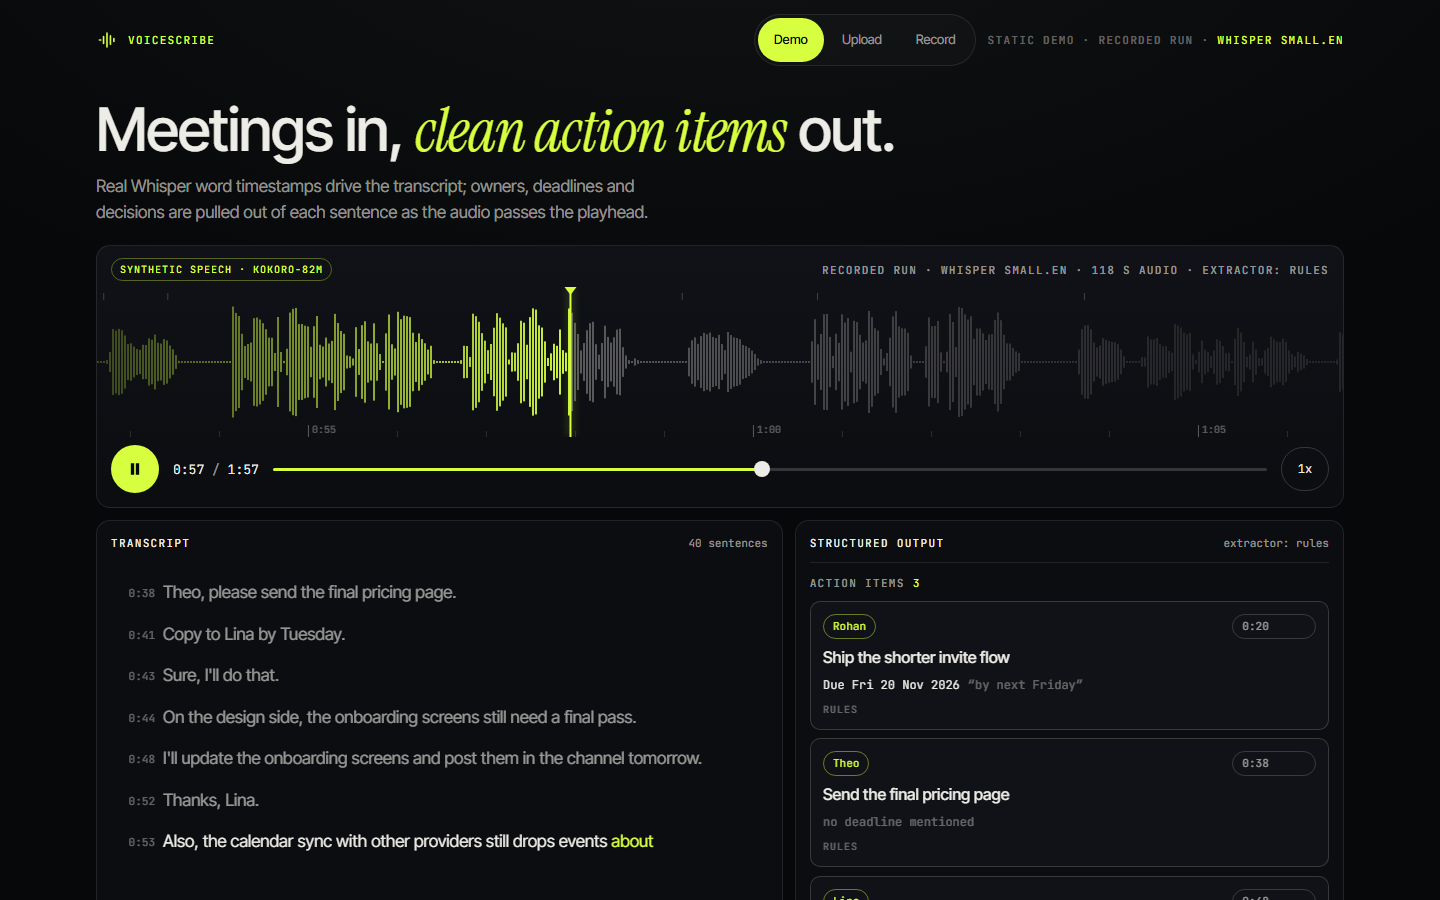
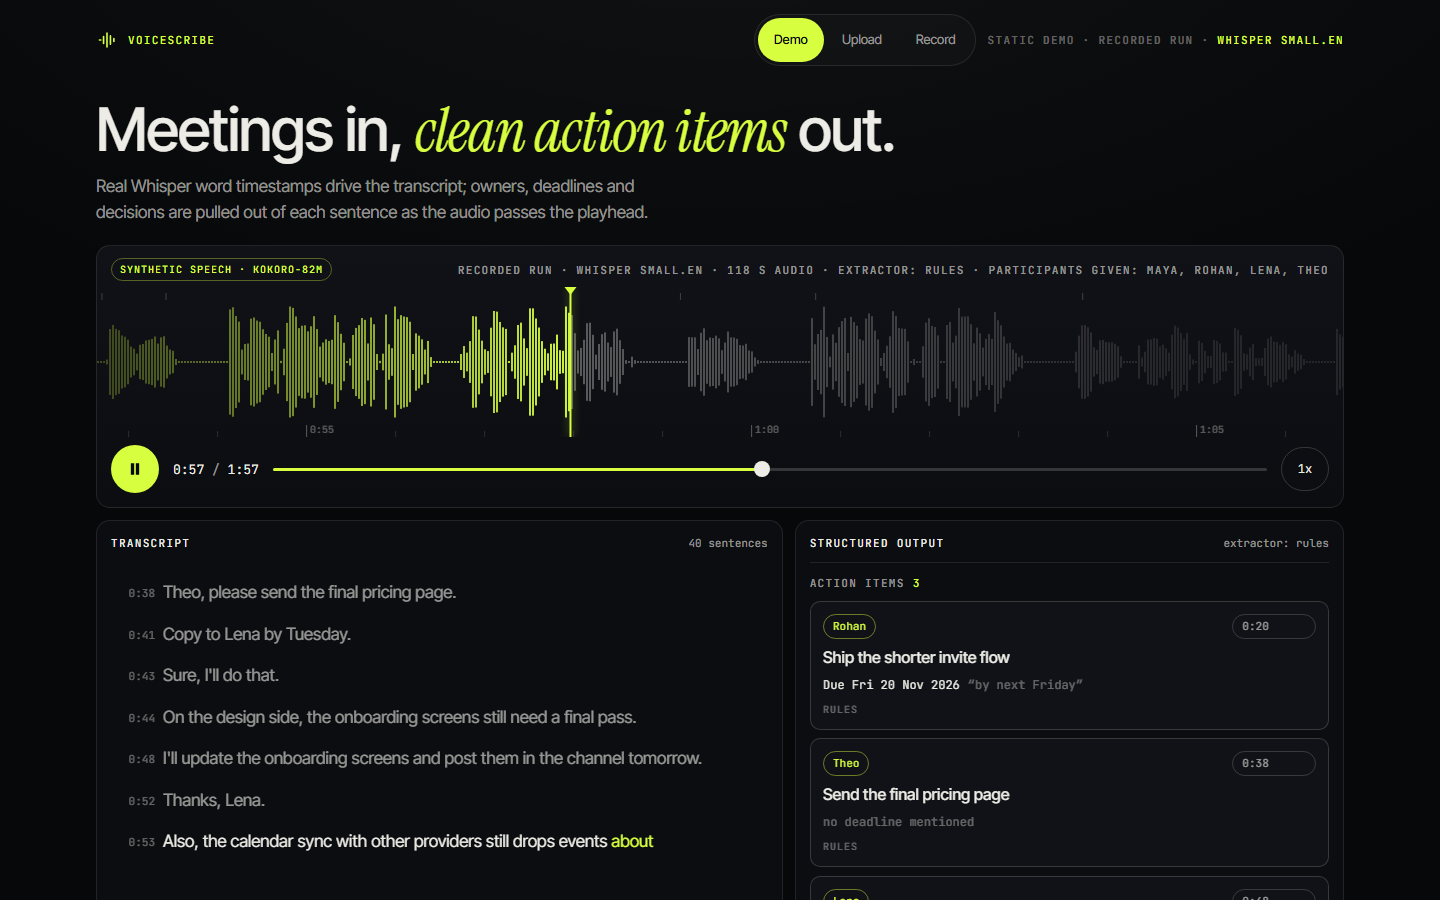
Record the demo run with the attendee list and show it as a run input

diff --git a/docs/app.js b/docs/app.js
@@ -92,6 +92,7 @@ function loadMeeting(meeting, peaks, pps, audioUrl, opts = {}) {
   // The recorded demo shows a speed figure only when it was measured on a quiet machine (see scripts/rerecord_demo.py).
   if (tm.asr_s != null && (!opts.recorded || tm.quiet_machine)) parts.push(`asr ${tm.asr_s.toFixed(1)} s (${tm.rtf}x real time, cpu int8)`);
   parts.push(`extractor: ${meeting.extractor}`);
+  if (meeting.participants && meeting.participants.length) parts.push(`participants given: ${meeting.participants.join(", ")}`);
   $("#run-info").textContent = $("#run-info-m").textContent = (opts.recorded ? "recorded run · " : "") + parts.join(" · ");
   if (opts.recorded) S.recordedModel = meeting.transcript.model.replace("faster-whisper/", "whisper ");
   renderEnv();

diff --git a/web/app.js b/web/app.js
@@ -92,6 +92,7 @@ function loadMeeting(meeting, peaks, pps, audioUrl, opts = {}) {
   // The recorded demo shows a speed figure only when it was measured on a quiet machine (see scripts/rerecord_demo.py).
   if (tm.asr_s != null && (!opts.recorded || tm.quiet_machine)) parts.push(`asr ${tm.asr_s.toFixed(1)} s (${tm.rtf}x real time, cpu int8)`);
   parts.push(`extractor: ${meeting.extractor}`);
+  if (meeting.participants && meeting.participants.length) parts.push(`participants given: ${meeting.participants.join(", ")}`);
   $("#run-info").textContent = $("#run-info-m").textContent = (opts.recorded ? "recorded run · " : "") + parts.join(" · ");
   if (opts.recorded) S.recordedModel = meeting.transcript.model.replace("faster-whisper/", "whisper ");
   renderEnv();

diff --git a/scripts/rerecord_demo.py b/scripts/rerecord_demo.py
@@ -28,7 +28,7 @@ sys.path.insert(0, str(ROOT / "src"))
 
 from voicescribe import audio  # noqa: E402
 from voicescribe.asr import FasterWhisperTranscriber  # noqa: E402
-from voicescribe.eval.extract_eval import load_meeting  # noqa: E402
+from voicescribe.eval.extract_eval import load_meeting, script_participants  # noqa: E402
 from voicescribe.eval.speech_eval import demo_eval  # noqa: E402
 from voicescribe.extract.base import get_extractor  # noqa: E402
 from voicescribe.pipeline import process_file  # noqa: E402
@@ -92,7 +92,8 @@ def main() -> None:
     busy = cpu_busy()
     gold = load_meeting(demo / "script.txt")
     meeting, samples = process_file(demo / "meeting.mp3", gold.date, transcriber=tr, extractor=get_extractor("rules"),
-                                    title=gold.title, synthetic=True)  # fmt: skip
+                                    title=gold.title, synthetic=True,
+                                    people=script_participants(demo / "script.txt"))  # fmt: skip
     meeting.timings["quiet_machine"] = 1.0 if busy < QUIET_BELOW else 0.0
     meeting.timings["cpu_busy_before"] = busy
     web = ROOT / "web" / "demo"

diff --git a/src/voicescribe/cli.py b/src/voicescribe/cli.py
@@ -103,7 +103,7 @@ def cmd_build_demo(a: argparse.Namespace) -> int:
     """Run the real pipeline on the bundled synthetic meeting and write the recorded run for the web UI."""
     from . import audio
     from .asr import FasterWhisperTranscriber
-    from .eval.extract_eval import load_meeting
+    from .eval.extract_eval import load_meeting, script_participants
     from .extract.base import get_extractor
     from .pipeline import process_file
 
@@ -112,7 +112,7 @@ def cmd_build_demo(a: argparse.Namespace) -> int:
     meeting, samples = process_file(
         demo / "meeting.mp3", gold.date, transcriber=FasterWhisperTranscriber(a.model),
         extractor=get_extractor(a.extractor), diarise=a.diarize, models_dir=Path(a.models_dir),
-        title=gold.title, synthetic=True,
+        title=gold.title, synthetic=True, people=script_participants(demo / "script.txt"),
     )  # fmt: skip
     out = Path(a.out)
     out.mkdir(parents=True, exist_ok=True)

diff --git a/tests/test_names.py b/tests/test_names.py
@@ -73,3 +73,10 @@ def test_parse_people():
 def test_labelled_meetings_are_left_untouched():
     for m in extract_eval.load_all(Path(ROOT / "data" / "eval" / "extract")):
         assert canonical_map(m.transcript.sentences) == {}, m.name
+
+
+def test_meeting_records_the_participants_it_was_given():
+    text = "Okay. Lena, can you ship the invite flow by Friday? Sure, I will. Thanks, Lina."
+    m = build_meeting(words_from_text(text), 20.0, MEETING_DATE, RulesExtractor(), people=["Maya", "Lena"])
+    assert m.participants == ["Maya", "Lena"] and "Lina" not in m.transcript.text() and m.name_map == {"Lina": "Lena"}
+    assert build_meeting(words_from_text(text), 20.0, MEETING_DATE, RulesExtractor()).participants == []

diff --git a/src/voicescribe/eval/extract_eval.py b/src/voicescribe/eval/extract_eval.py
@@ -155,3 +155,11 @@ def score(meetings: list[EvalMeeting], extractor: Extractor, people_from_speaker
         "matched_actions": owner_n,
         "errors": errors,
     }
+
+
+def script_participants(path: Path) -> list[str]:
+    """Names from a script's "# voices: Maya=af_heart, Rohan=..." header (the attendee list for the demo meeting)."""
+    for line in path.read_text(encoding="utf8").splitlines():
+        if line.startswith("# voices:"):
+            return [kv.split("=")[0].strip() for kv in line.split(":", 1)[1].split(",") if "=" in kv]
+    return []

diff --git a/src/voicescribe/schema.py b/src/voicescribe/schema.py
@@ -87,6 +87,7 @@ class Meeting(BaseModel):
     synthetic: bool = False
     audio_name: str | None = None
     speakers: list[str] = Field(default_factory=list)
+    participants: list[str] = Field(default_factory=list)  # attendee list supplied by the user (not inferred)
     name_map: dict[str, str] = Field(default_factory=dict)  # spelling variants rewritten to one name
     transcript: Transcript
     summary: Summary | None = None

diff --git a/src/voicescribe/pipeline.py b/src/voicescribe/pipeline.py
@@ -56,6 +56,7 @@ def build_meeting(
         synthetic=synthetic,
         audio_name=audio_name,
         speakers=names,
+        participants=list(people or []),
         name_map=name_map,
         transcript=transcript,
         summary=summary,

diff --git a/README.md b/README.md
@@ -148,7 +148,7 @@ two items and gets both wrong, so it is worse than leaving owners unassigned. Lo
 is confident and wrong on exactly the cases that cannot be resolved from text ("Nadia" for a sentence spoken by
 Sol, because Nadia answered the line before): without speaker turns the transcript simply does not contain the
 answer. The deterministic cues that do exist (an addressed request followed by an acceptance, a trailing name in a
-request, "Thanks, Mei." after a commitment) are in the rules, which resolved the demo's "Lena" and "Rohan" items.
+request, "Thanks, Mei." after a commitment) are in the rules, which resolved the demo's "Lena" and "Rohan" items (6 of its 7 owners).
 
 *The 1.5B "collapse" in the first version was a defect, not a finding.* My first verifier asked the model for a JSON label and
 the 1.5B model answered "decision" for 11 of 13 candidates, including plain requests, and once with an invalid label
@@ -169,8 +169,10 @@ showed up as two different owners. Names the dialogue marks as names (an address
 are clustered by consonant skeleton and edit distance and rewritten to one spelling, in the transcript and in the owners.
 With a participants list (`--participants "Ana, Ben"`, the API field `participants`, or the Participants field in
 Upload/Record) that list is the closed set: names map to the nearest participant and an owner outside it becomes
-unassigned. Without one, the most frequent spelling wins, which is not necessarily the right one (the demo's "Lena" is
-heard mostly as "Lina" and shows as Lina). The labelled meetings contain no spelling variants, so the effect is covered by unit tests, not by a score.
+unassigned. Without one, the most frequent spelling wins, which is not necessarily the right one: on the demo, recognition hears "Lena"
+mostly as "Lina", so without a list it would show as Lina. The recorded demo run is made with the attendee list from the
+script (Maya, Rohan, Lena, Theo), and the UI shows it as "participants given: ..." so it is clear the names were supplied, not inferred.
+The labelled meetings contain no spelling variants, so the effect is covered by unit tests, not by a score.
 
 ### Speaker diarisation (optional, off by default)
 
